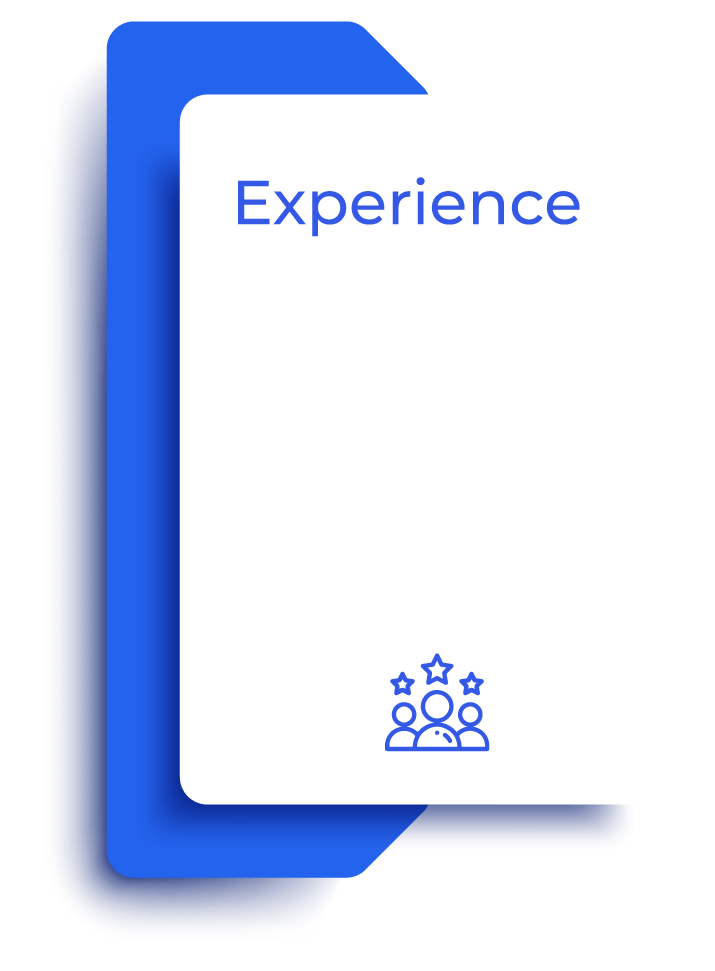
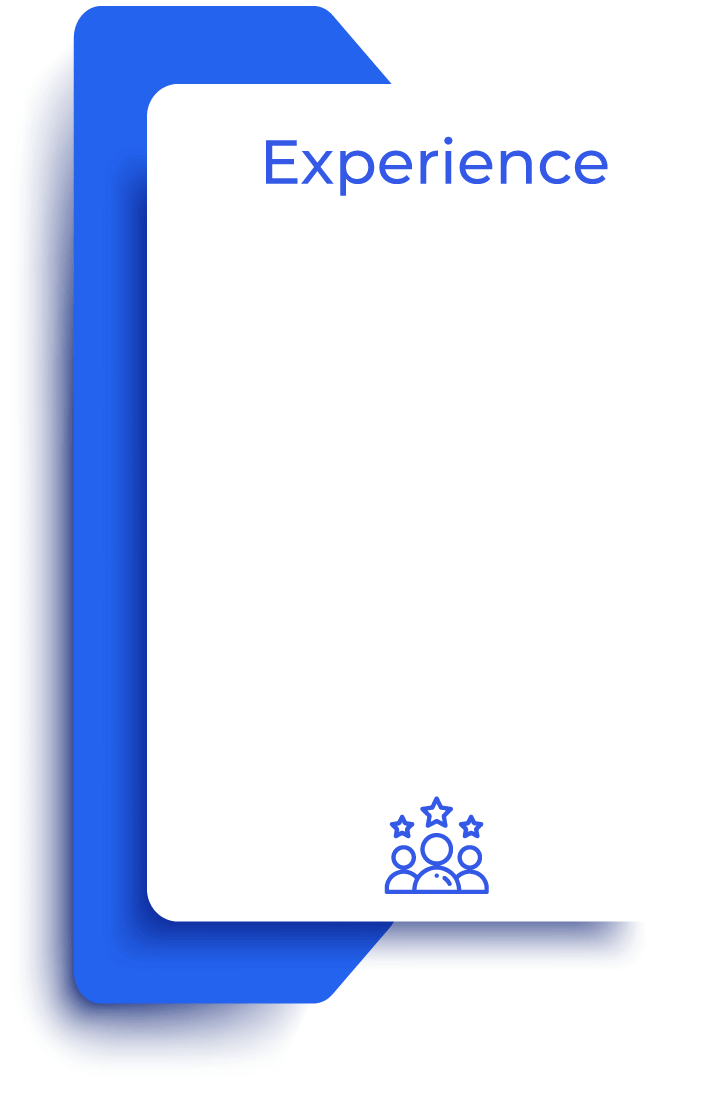
optimising why pts section

Changed region(s): [[0.0308, 0.0, 0.8936, 0.9887]]

diff --git a/index.html b/index.html
@@ -199,11 +199,11 @@ seo:
 
 <!-------------------------------- Why PTS threes--------------------------->
 
-<section id="why-pts" class="padded grid-spaceAround center">
+<!-- <section id="why-pts" class="padded grid-spaceAround center">
     <h2 class="col-12 p-b-3 p-t-2">Why PTS?</h2>
-    <p class="col-12 p-b-2 center">Precision Talent Solutions is not your average executive search firm or recruitment agency. We are consulting partners helping our customers solve the greatest challenge of the government contracting industry: talent. </p>
+    <p class="col-12 p-b-2 center">Precision Talent Solutions is not your average executive search firm or recruitment agency. We are consulting partners helping our customers solve the greatest challenge of the government contracting industry: talent. </p> -->
         <!-- changed this to col-4 because it was wacky on large sized monitors -->
-    <div class="col-4_md-12 why-pts padded">
+    <!-- <div class="col-4_md-12 why-pts padded">
         <h3 class="p-b-2 center">Experience</h3>
         <p>Over 400 years of cumulative government contracting experience from the C-Suite level to the field technical professional level, gives our team the knowledge about the  programs and agencies driving our industry. We have mapped the industry, and each of our 35+ team members bring their extensive network to our customers.    </p>
     </div>
@@ -216,20 +216,23 @@ seo:
         <p>We understand the importance of building the right teams in this industry. Most members of PTS served as hiring managers and understand what you are faced with. We start every team meeting with the phrase, “treat your candidates like customers.” Our philosophy towards empathetic recruitment personifies our core values of integrity, communication, respect, initiative, and added value.  </p>
     </div>
 
-</section>
+</section> -->
 
 <section id="why-pts" class="padded-8 grid-spaceAround center">
   <h2 class="col-12 p-b-3 p-t-2 blue bold">Why PTS?</h2>
   <p class="col-12 p-b-2 center">Precision Talent Solutions is not your average executive search firm or recruitment agency. We are consulting partners helping our customers solve the greatest challenge of the government contracting industry: talent. </p>
       <!-- changed this to col-4 because it was wacky on large sized monitors -->
-  <div class="col-4_sm-12 why-pts padded-8 bg-experience threes">
-      <p>Over 400 years of cumulative government contracting experience from the C-Suite level to the field technical professional level, gives our team the knowledge about the  programs and agencies driving our industry. We have mapped the industry, and each of our 35+ team members bring their extensive network to our customers.    </p>
+  <div class="col-4_md-12 why-pts threes relative">
+    <img class="img-max" src="/images/experience.png">
+      <p class="fixed-three">Over 400 years of cumulative government contracting experience from the C-Suite level to the field technical professional level, gives our team the knowledge about the  programs and agencies driving our industry. We have mapped the industry, and each of our 35+ team members bring their extensive network to our customers.    </p>
   </div>
-  <div class="col-4_sm-12 why-pts padded-8 bg-technology threes">
-      <p> PTS has revolutionized recruitment by leveraging disruptive technology to deliver the talent that is right for you. Video interviews, personality assessments, leadership success predictor, cognitive assessment, functional fit, 9-block predictor, and technical scorecards, all deliver you key data points to make a predicative hiring decision. We invest heavily in our sourcing technology, including numerous LinkedIn Recruiter seats, and access to Clearance Jobs, Indeed, and X-Ray.   </p>
+  <div class="col-4_md-12 why-pts threes relative">
+    <img class="img-max" src="/images/technology.png">
+      <p class="fixed-three"> PTS leverages disruptive technology for recruitment, providing key data points for predictive hiring decisions through video interviews, assessments, and technical scorecards. We invest heavily in sourcing technology, including numerous LinkedIn Recruiter seats and access to other job platforms.   </p>
   </div>
-  <div class="col-4_sm-12 why-pts padded-8 bg-philosophy threes">
-      <p>We understand the importance of building the right teams in this industry. Most members of PTS served as hiring managers and understand what you are faced with. We start every team meeting with the phrase, “treat your candidates like customers.” Our philosophy towards empathetic recruitment personifies our core values of integrity, communication, respect, initiative, and added value.  </p>
+  <div class="col-4_md-12 why-pts threes relative">
+    <img class="img-max" src="/images/philosophy.png">
+      <p class="fixed-three">We start every team meeting with the phrase, "treat your candidates like customers," which reflects our philosophy towards empathetic recruitment. We believe in personifying our core values of integrity, communication, respect, initiative, and added value through our recruitment process, and we strive to create a positive experience for both our clients and candidates.  </p>
   </div>
 
 </section>

diff --git a/style.css b/style.css
@@ -328,9 +328,7 @@ footer ul li::before {
 
 .threes p{
     line-height: 1.2;
-    font-size: 1rem;
-    margin-top: 24%;
-    margin-left: 9%;
+    font-size: 1.15rem;
 }
 
 
@@ -979,6 +977,13 @@ footer li{
 
 .association{
     border-radius: 16%;
+}
+
+.fixed-three {
+    position: absolute;
+    top: 20%;
+    left: 25%;
+    right: 6%;
 }
 
 /* industry network gallery */
@@ -1658,8 +1663,8 @@ width:1rem;
 /* index page styles */
 
 .why-pts{
-    text-align: justify;
-    max-width: 1200px;
+    text-align: left;
+    max-width: 400px
 }
 
 .img-stairs{
